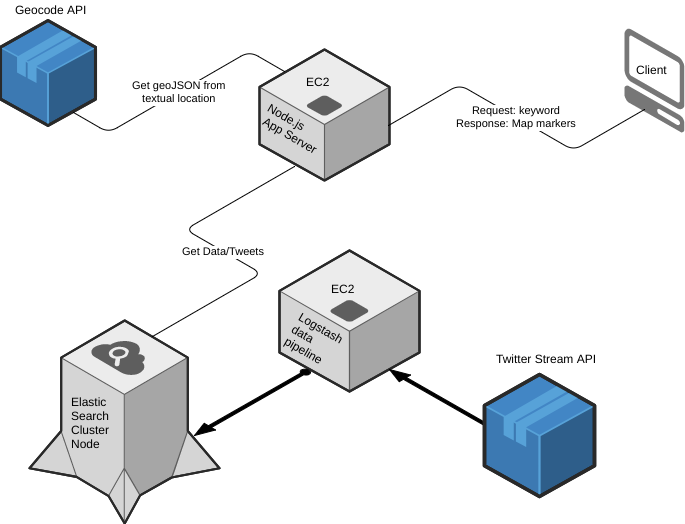
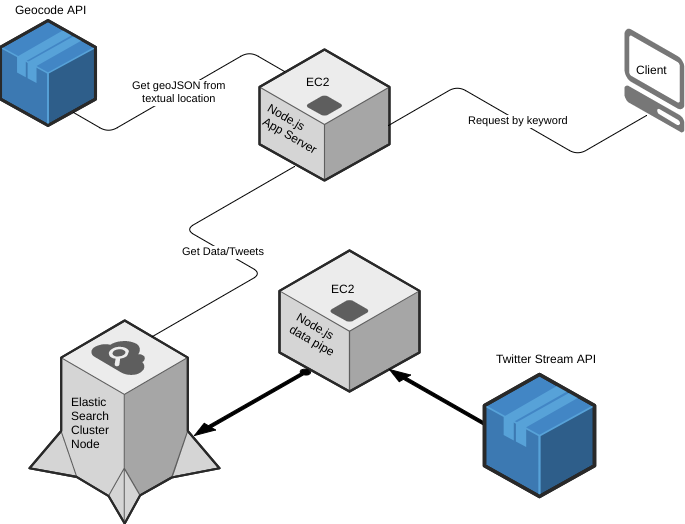
now using second node server & updates tweets on an interval

diff --git a/static/js/script.js b/static/js/script.js
@@ -3,10 +3,11 @@ var map;
 let marker;
 var locat = [{lat: -25.363, lng: 131.044}];
 var result = ['lol'];
+var bounds;
 
 // Following function places markers on the map for every tweet and its corresponding location
 function initMap() {
-
+    var bounds = new google.maps.LatLngBounds();
     var uluru = {lat: 45.708346, lng: -12.109734};
      map = new google.maps.Map(document.getElementById('gmap'), {
       zoom: 3,
@@ -14,22 +15,29 @@ function initMap() {
     });
 
     for (i in locat){
-        let temp = document.createElement('div');
-        temp.innerHTML = result[i];
+        
+        if (i != 0){
+            bounds.extend(locat[i]);
+            let temp = document.createElement('div');
+            temp.innerHTML = result[i];
 
-        let infowindow = new google.maps.InfoWindow({
-            content: temp.firstChild,
-            position: locat[i],
-            maxWidth: 300
-        });
-        let marker = new google.maps.Marker({
-            position: locat[i],
-            map: map,
-          });
-        marker.addListener('click', function() {
-            infowindow.open(map, marker);
-          });
+            let infowindow = new google.maps.InfoWindow({
+                content: temp.firstChild,
+                position: locat[i],
+                maxWidth: 300
+            });
+            let marker = new google.maps.Marker({
+                position: locat[i],
+                map: map,
+            });
+            marker.addListener('click', function() {
+                infowindow.open(map, marker);
+            });
+            map.fitBounds(bounds);
+        }
+       
     }
+    
 }
 
 //get coordinates from the location
@@ -60,7 +68,7 @@ function myFunction(xhttp, markup) {
 }
 
 function getcoordinates(address, markup){
-    var uri = 'http://[app-server-url]/geoloc?location=' + address;
+    var uri = 'http://18.216.48.10/geoloc?location=' + address;
     // routing this to my async call
     loadDoc(uri, myFunction, markup); 
 }
@@ -72,39 +80,89 @@ function getdata(){
 }
 
 function displaydata(keyword, count){
-    var myRequest = 'http://[app-server-url]/tweets?query=' + keyword + '&size=' + count;
+    var myRequest = 'http://18.216.48.10/tweets?query=' + keyword + '&size=' + count;
     fetch(myRequest).then(function(response) {    
         return response.json();
     })
     .then(function(json) { 
+        //console.log(json)
         var obj = json.hits.hits;
         result = ['lol'];
         locat = [{lat: -25.363, lng: 131.044}];
 
         for (var tweet in obj) {
-            let date = new Date(obj[tweet]._source["@timestamp"]);
+            let date = new Date(obj[tweet]._source.date);
 
             res =  '<div class="row card-panel">'    
                         + '<div class="col s3 card-image">'
-                            + '<img class="profile-img" src="' + obj[tweet]._source.user.profile_image_url_https + '">'
+                            + '<img class="profile-img" src="' + obj[tweet].profile_img_url + '">'
                         + '</div>'
                         + '<div class="s9">'
                             + '<p>'
-                            + 'location: ' + obj[tweet]._source.user.location + '</br>'
-                            + '<a class=""nav-link" href="https://twitter.com/' + obj[tweet]._source.user.screen_name + '" target="_blank">@'
-                            + obj[tweet]._source.user.screen_name + '</a>&nbsp;&nbsp;&nbsp;'
+                            + 'location: ' + obj[tweet]._source.location + '</br>'
+                            + '<a class=""nav-link" href="https://twitter.com/' + obj[tweet]._source.screen_name + '" target="_blank">@'
+                            + obj[tweet]._source.screen_name + '</a>&nbsp;&nbsp;&nbsp;'
                             + date.toString().slice(0,25) + '</br>'
-                            + obj[tweet]._source.text + '&nbsp;&nbsp;&nbsp'
-                            + '<a href="https://twitter.com/' + obj[tweet]._source.user.screen_name 
-                            + '/status/' +  obj[tweet]._source.id_str + '" target="_blank">t.co</a>'
+                            + '<strong>' + obj[tweet]._source.text + '</strong>&nbsp;&nbsp;&nbsp'
+                            + '<a href="https://twitter.com/' + obj[tweet]._source.screen_name 
+                            + '/status/' +  obj[tweet]._source.user_id_str + '" target="_blank">t.co</a>'
                             + '</p>'
                         + '</div>'
                     + '</div>';
-            if (obj[tweet]._source.user.location!=null && obj[tweet]._source.user.location!=undefined){
-                getcoordinates(obj[tweet]._source.user.location, res);
-            }            
+            // since I'm filtering them pesky non-location including tweets in my data-pipeline
+            // No more need to check for the location == undefined/null here
+            getcoordinates(obj[tweet]._source.location, res);
+            
+        }
+        setTimeout(initMap, 5000); 
+    }).then( () => {
+
+        return setInterval(newdata, 10000);
+    })
+    .catch(function(error) { console.log(error); });
+}
+
+
+//newer data
+
+function newdata(){
+    let keyword = document.getElementById('keyword').value;
+    let count = document.getElementById('test5').value;
+    console.log(keyword, count);
+    var myRequest = 'http://18.216.48.10/tweets?query=' + keyword + '&size=' + count;
+    fetch(myRequest).then(function(response) {    
+        return response.json();
+    })
+    .then(function(json) { 
+        //console.log(json)
+        var obj = json.hits.hits;
+        result = ['lol'];
+        locat = [{lat: -25.363, lng: 131.044}];
+
+        for (var tweet in obj) {
+            let date = new Date(obj[tweet]._source.date);
+
+            res =  '<div class="row card-panel">'    
+                        + '<div class="col s3 card-image">'
+                            + '<img class="profile-img" src="' + obj[tweet].profile_img_url + '">'
+                        + '</div>'
+                        + '<div class="s9">'
+                            + '<p>'
+                            + 'location: ' + obj[tweet]._source.location + '</br>'
+                            + '<a class=""nav-link" href="https://twitter.com/' + obj[tweet]._source.screen_name + '" target="_blank">@'
+                            + obj[tweet]._source.screen_name + '</a>&nbsp;&nbsp;&nbsp;'
+                            + date.toString().slice(0,25) + '</br>'
+                            + '<strong>' + obj[tweet]._source.text + '</strong>&nbsp;&nbsp;&nbsp'
+                            + '<a href="https://twitter.com/' + obj[tweet]._source.screen_name 
+                            + '/status/' +  obj[tweet]._source.user_id_str + '" target="_blank">t.co</a>'
+                            + '</p>'
+                        + '</div>'
+                    + '</div>';
+            // since I'm filtering them pesky non-location including tweets in my data-pipeline
+            // No more need to check for the location == undefined/null here
+            getcoordinates(obj[tweet]._source.location, res);
+            
         }
 
-    }).then( () => {return setTimeout(initMap, 4000);} )
-    .catch(function(error) { console.log(error); });
+    }).then(() => { Materialize.toast('New tweets might have been found!', 3000); return setTimeout(initMap, 1000)})
 }

diff --git a/index.js b/index.js
@@ -23,7 +23,7 @@ const config = require('./config');
 // retrieves tweets and pipes 'em to front-end
 app.get('/tweets', function(req, res, next) {
     
-    //console.log(req.query.query);
+    //console.log(req.query.query, req);
     "use strict";
     let query = req.query.query;
     let size = req.query.size;
@@ -32,7 +32,7 @@ app.get('/tweets', function(req, res, next) {
                     + '/_search'
                     + '?q=' + query 
                     + '&size=' + size 
-                    + '&_source=text,user.location,user.screen_name,id_str,@timestamp,user.profile_image_url_https';
+                    + '&sort=id';
     
     request({
       uri: ESreq

diff --git a/static/index.html b/static/index.html
@@ -60,11 +60,12 @@
     crossorigin="anonymous"></script>
     <!-- Compiled and minified JavaScript -->
     <script src="https://cdnjs.cloudflare.com/ajax/libs/materialize/0.100.2/js/materialize.min.js"></script>
-
     <script>
-      getdata();
-
       $(document).ready(function() {
+        Materialize.toast('Select a keyword from top left dropdown', 3000);
+        Materialize.toast('markers might get updated if newer tweets are received!', 7000);
+        
+
         $('select').material_select();
         $('.tooltipped').tooltip({delay: 50});
       });

diff --git a/config.js b/config.js
@@ -1,0 +1,8 @@
+var config = {
+     "esURI": "https://search-twittmap-omkar-csgvoxgdamxt6tsw37wvcmhju4.us-east-1.es.amazonaws.com/",
+     "esIndex": "tweets",
+     "geoAPI": "https://maps.googleapis.com/maps/api/geocode/json",
+     "geoCodeKey": "AIzaSyAped26hzOgI17nIzJaw11YDL__uTyklrk"
+ };
+
+ module.exports = config;
